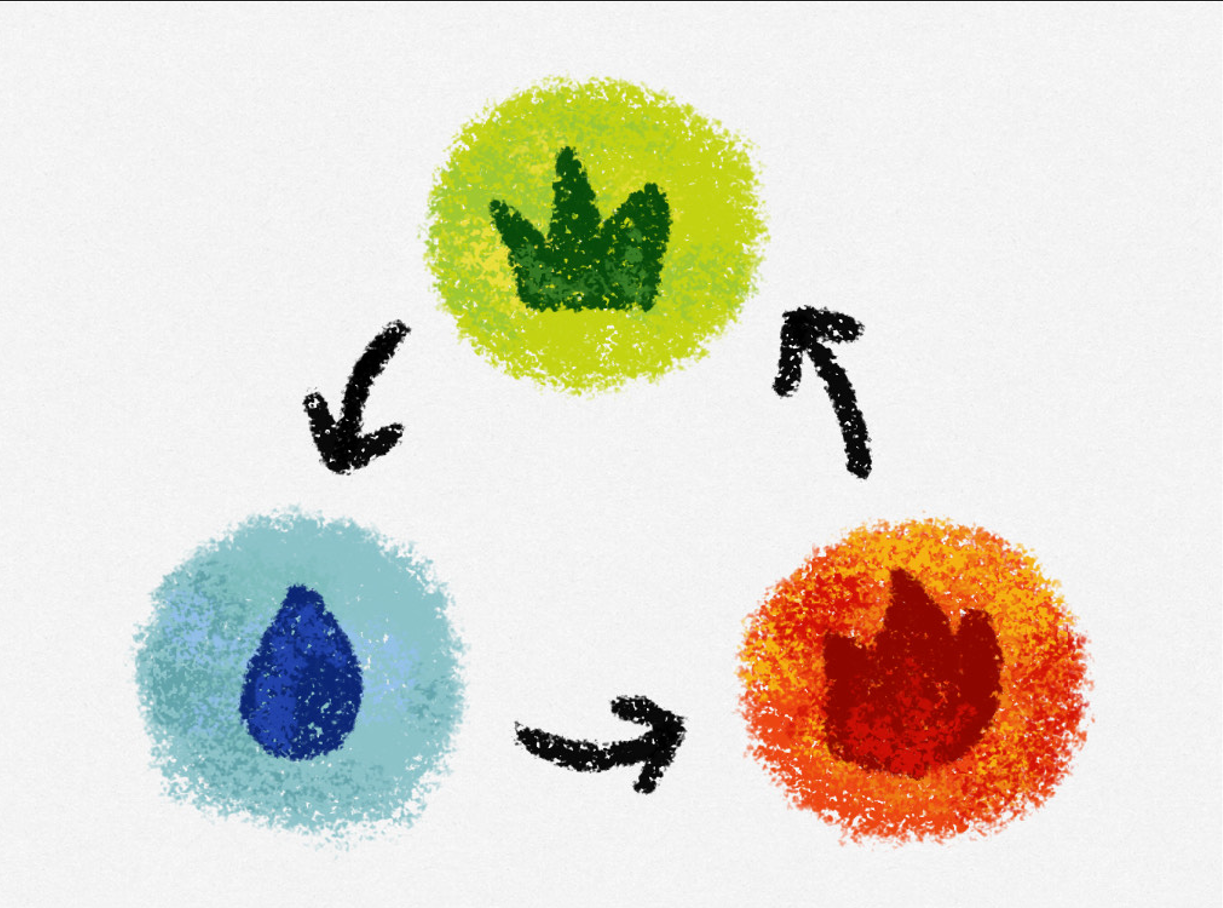
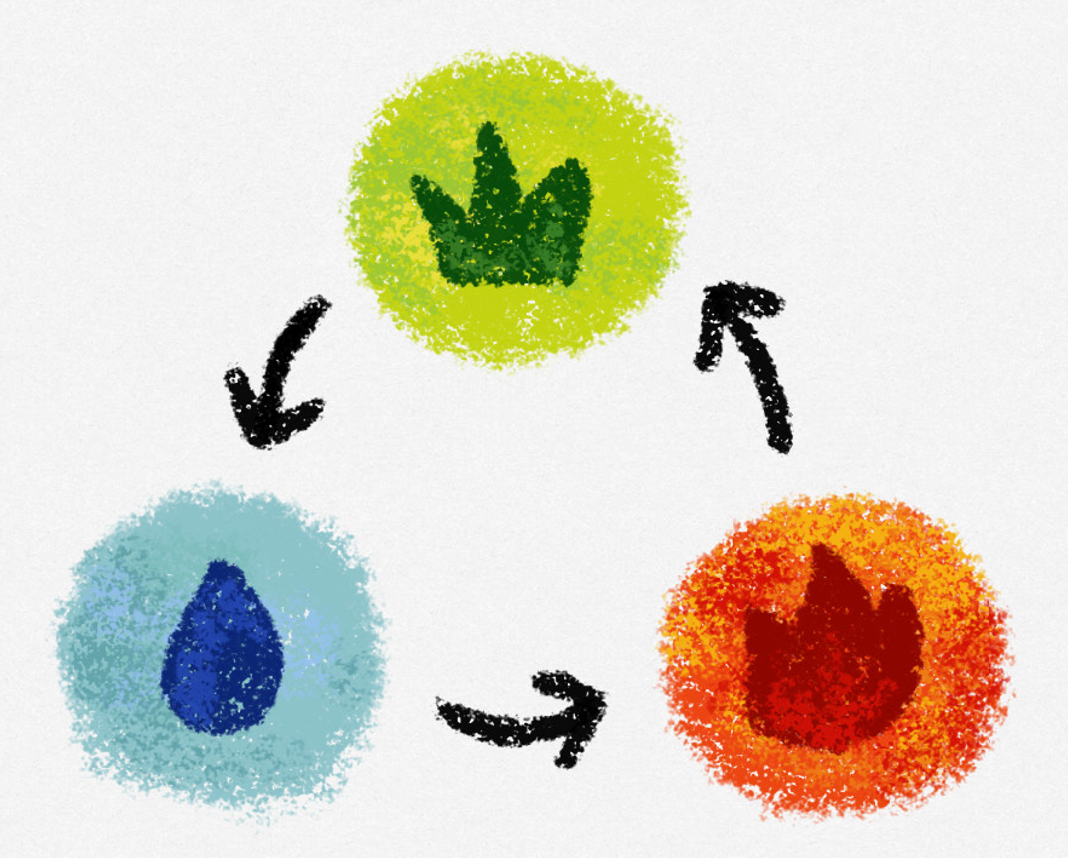
1217 submission

Changed region(s): [[0.0309, 0.0606, 0.9579, 0.9697]]

diff --git a/src/scenes/game_scene.py b/src/scenes/game_scene.py
@@ -693,6 +693,10 @@ class GameScene(Scene):
             mute_move_UI_image = pg.transform.scale(mute_move_UI_image, (15, 25))
             screen.blit(mute_move_UI_image, pg.Rect(overlay_x+ (185 if GameSettings.MUTE == "OFF" else 200), overlay_y+195, 15, 25))
             
+            element_image = resource_manager.get_image("backgrounds/elements.png")
+            element_image = pg.transform.scale(element_image, (150 , 130))
+            screen.blit(element_image, pg.Rect(overlay_x+350 , overlay_y+250, 150, 130))
+            
         if self.show_backpack:
             # draw buttons
             self.x_button.draw(screen)
